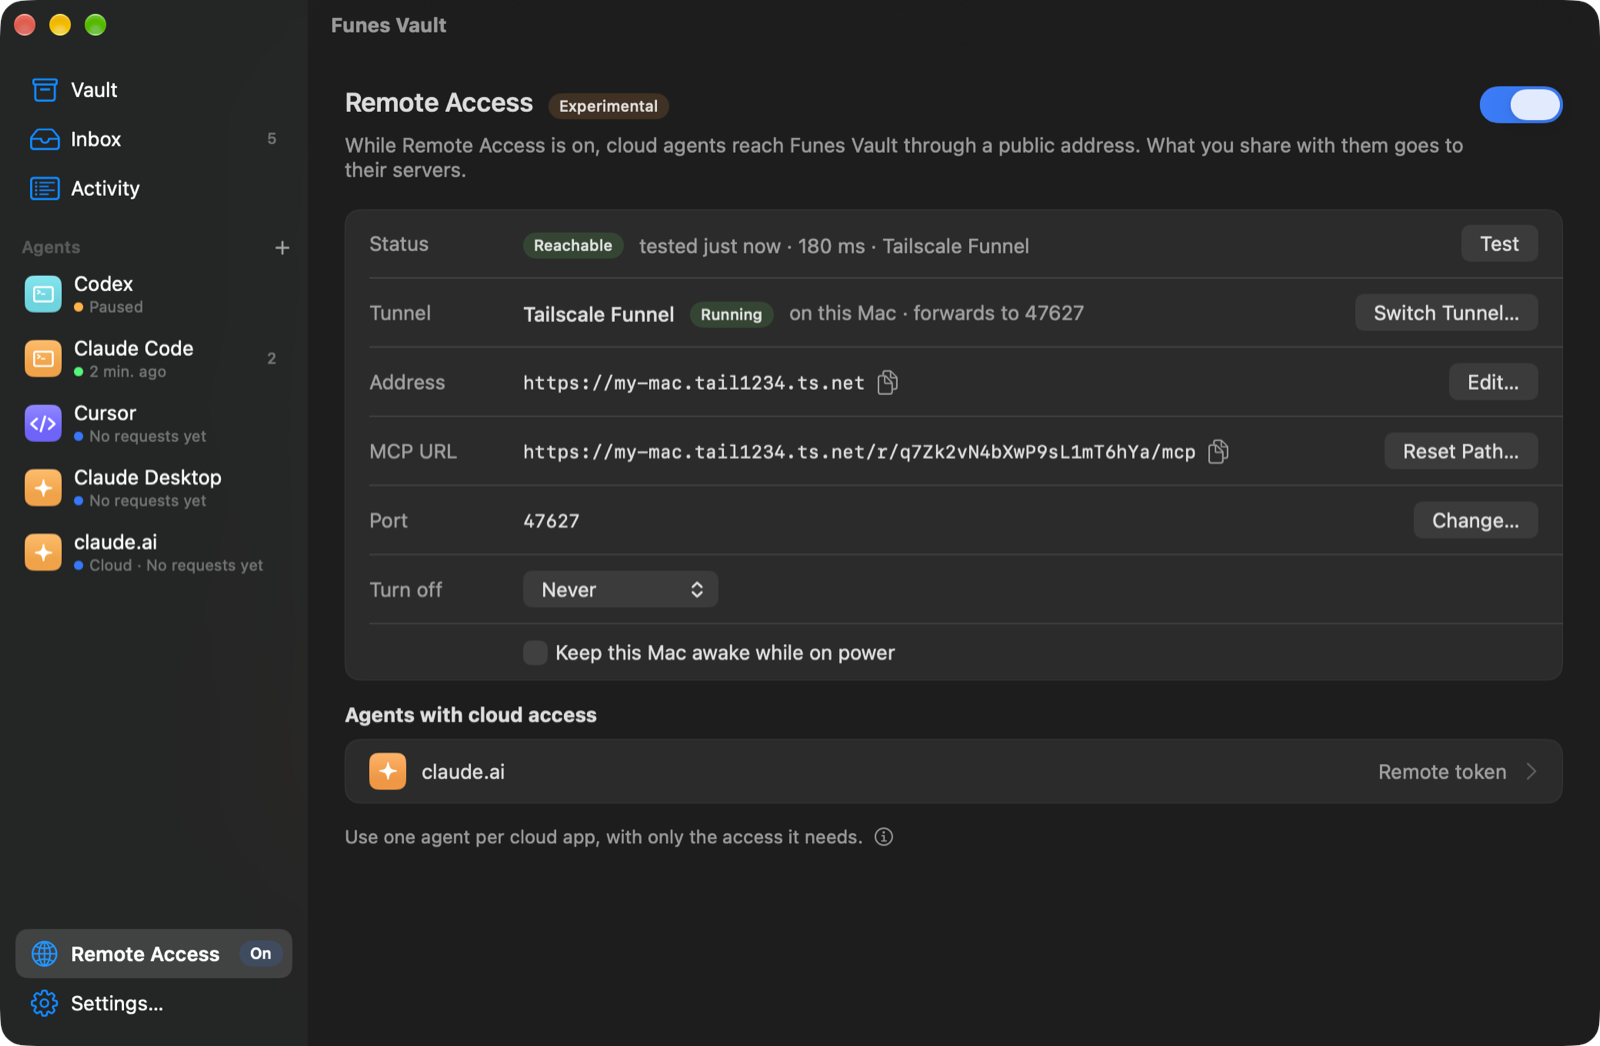
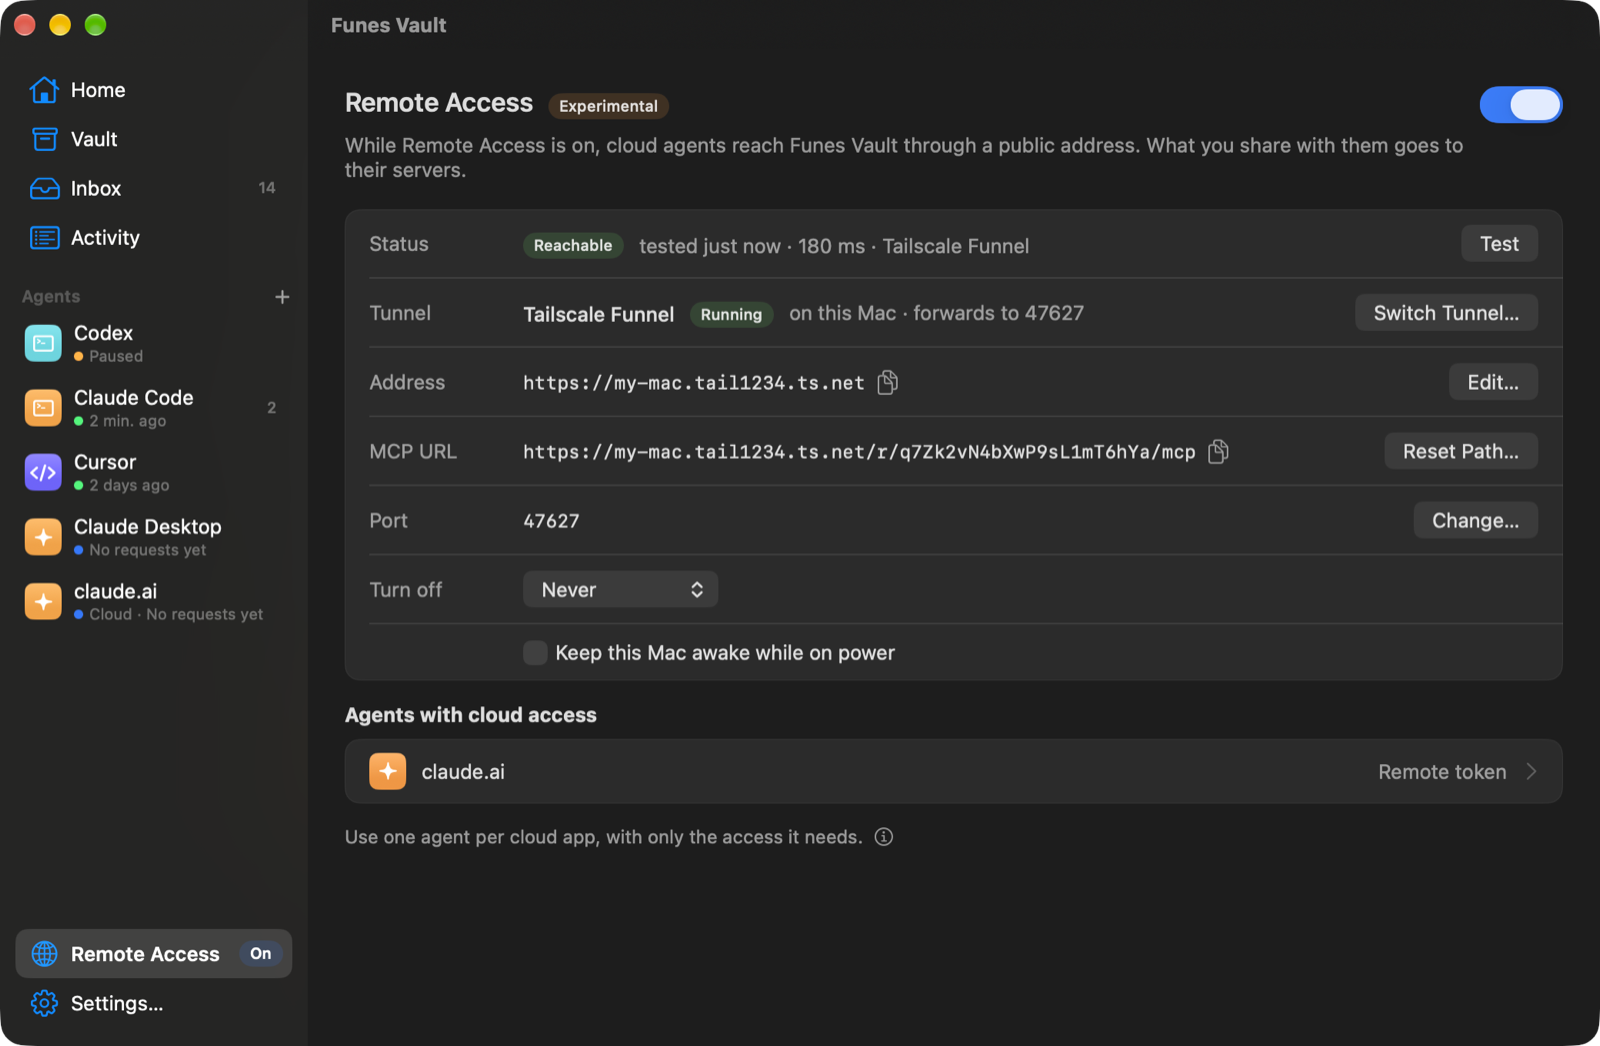
README: Home as the first screenshot; refreshed window screenshots (7.3)
Home replaces the Vault picture at the top, with a short description in Get
started. The other window screenshots are retaken, since the sidebar now starts
with Home. The cards keep one row at the default size whatever their text, the
Rhythm caption takes a line per part, and the review build sizes its first pass
like the second.

Changed region(s): [[0.0, 0.2141, 0.1562, 0.6119], [0.0, 0.1224, 0.0938, 0.1836], [0.0, 0.0612, 0.0938, 0.0918]]

diff --git a/README.md b/README.md
@@ -21,8 +21,8 @@ Badges, once the listings exist:
 
 <p align="center">
 <picture>
-  <source media="(prefers-color-scheme: dark)" srcset="docs/images/vault-memory-dark.png">
-  <img alt="The Funes Vault window: the Vault list with search and filters, and one memory open with its text, categories, sensitivity level and how often it was shared." src="docs/images/vault-memory-light.png" width="720">
+  <source media="(prefers-color-scheme: dark)" srcset="docs/images/home-dark.png">
+  <img alt="Funes Vault's Home: a greeting, a box to type a memory with a microphone and a Remember button, and the vault's pulse for the last 30 days: this week's numbers in a sentence, bars of new memories by source above a line and memories shared with each agent below it, with red dots for refused requests. Under it, cards for the number of memories and their growth, the sensitivity of the vault next to what was shared, a 12-week grid of activity, and the agents that read the vault most." src="docs/images/home-light.png" width="720">
 </picture>
 </p>
 
@@ -43,13 +43,15 @@ Badges, once the listings exist:
 
    Funes Vault needs **macOS 15 or later**, on Apple silicon or Intel.
 
-2. **Open the app.** It lives in the menu bar. The Vault opens with a short setup checklist:
+2. **Open the app.** It lives in the menu bar. Its window opens on **Home**, with a short setup checklist:
    1. **Connect an agent.** **Add…** opens Add Agent, with the agents found on your Mac first. Pick one and a starting access: the default, **Read low-sensitivity memories, ask first**, lets it read memories up to Low and asks you before each share. For Claude Code, Claude Desktop, Cursor and Codex, **Add and Connect…** shows exactly what it will change or run first, backs up a settings file before changing it, and never writes the key into the agent's settings. For other agents, copy the setup from the agent's **Connect** tab.
    2. **Approve its first request.** Ask your agent something, for example *"Plan a week of dinners for me"* or *"Set up this TypeScript project the way I like it."* The agent asks Funes for context, you see the panel, and you choose what to share. The step is done when the agent's first request arrives.
    3. **Seed your vault.** Answer a few optional questions, import your ChatGPT memories or paste Claude's, or import a Markdown file. What you add goes to the Inbox first, and anything that looks like a secret is never imported. The questions end with the categories agents should never see: those get Deny for every agent, including ones you add later.
    4. **Review your Inbox.** Apply what's right; edit or reject the rest.
 
-You can also capture a thought at any time with **⌥⌘M**, **Remember…** in the menu, or **Services ▸ Remember in Funes** in any app.
+You can also capture a thought at any time with **⌥⌘M**, **Remember…** in the menu, or **Services ▸ Remember in Funes** in any app, or type it on **Home** and press Return: it goes to the Inbox either way. **⌘Return** on Home searches your vault for what you typed, and the microphone dictates, on your Mac (macOS 26 and later).
+
+Home also shows your vault's pulse: what came in each day, from you, your iPhone, agents, imports or the tidy-up, and what went out to each agent, with refused requests marked. Hover a day for its numbers and click it to see that day in Activity. Below it: your memories and their growth, their sensitivity next to what was shared, your 12-week rhythm, and who reads your vault. It shows counts only, never a memory's text.
 
 Setups for every agent, the tool reference and troubleshooting are in the [MCP guide](docs/MCP.md).
 
